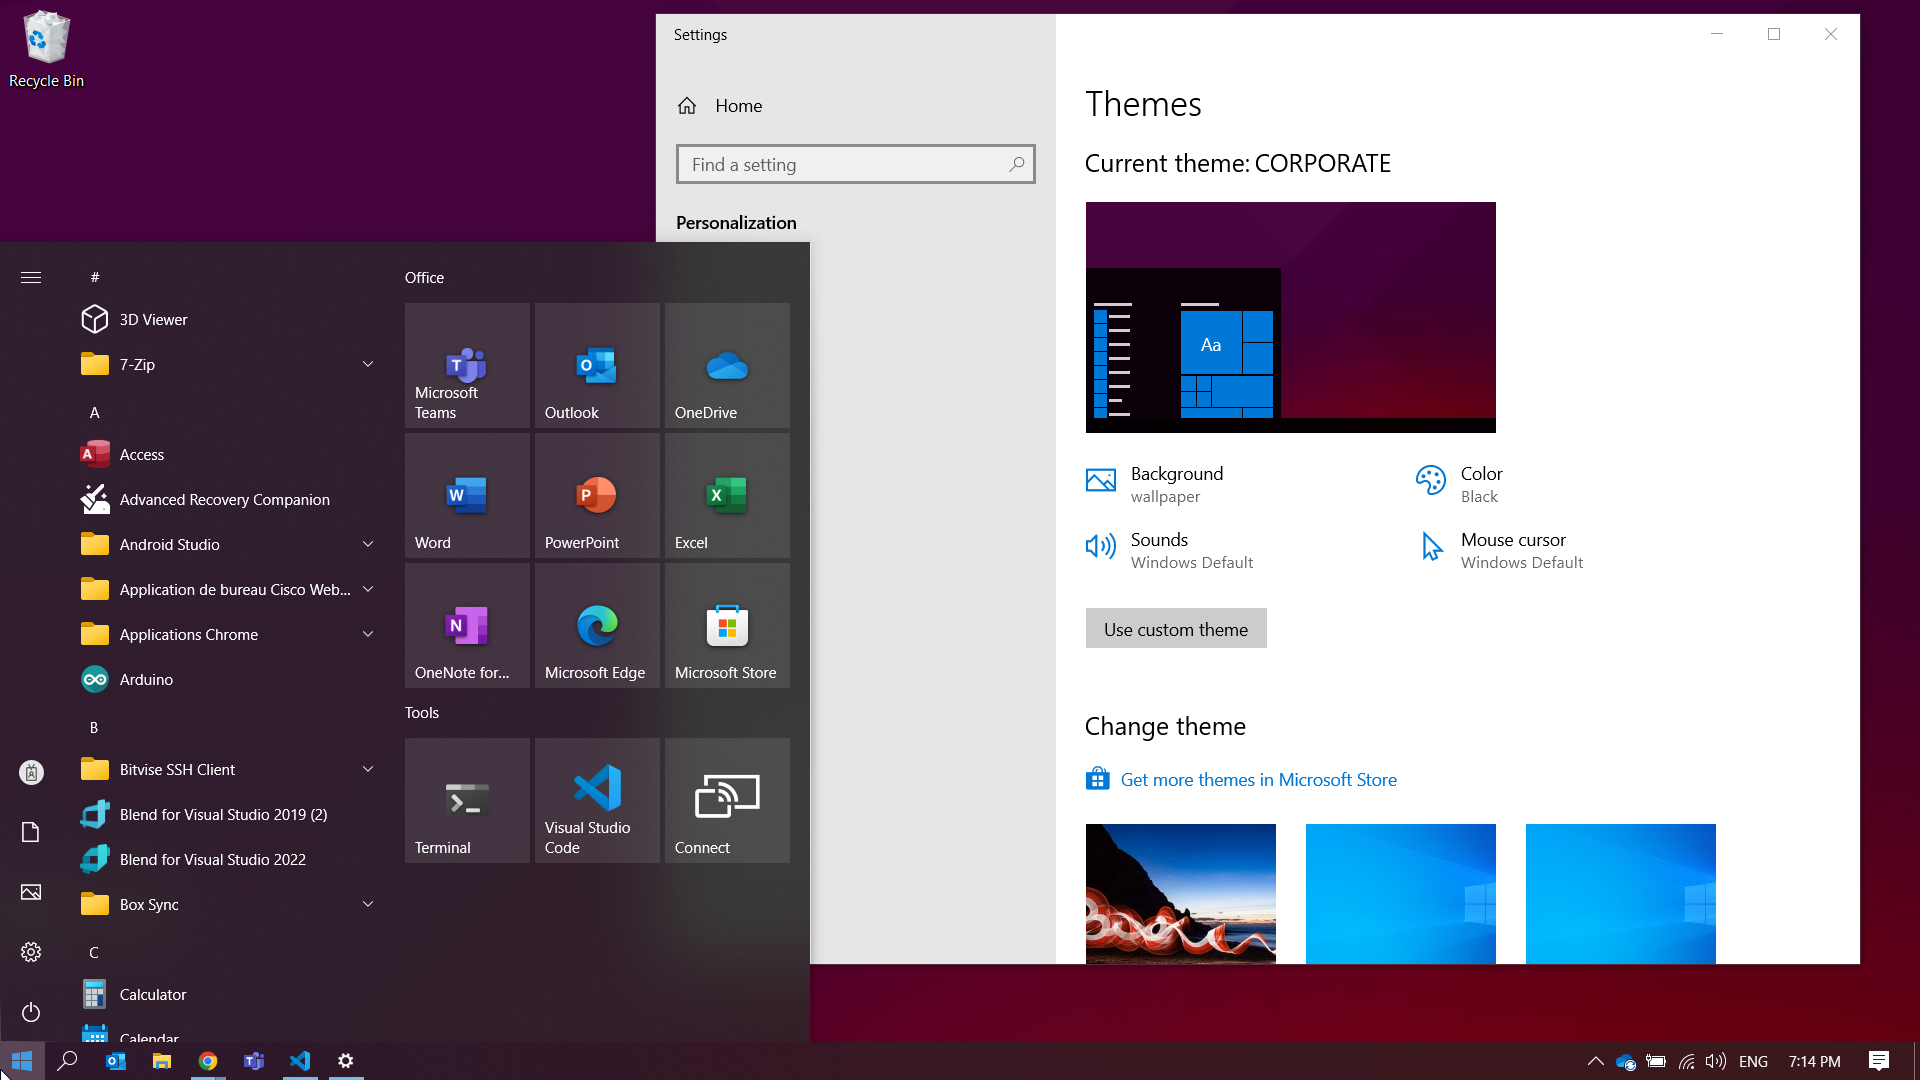
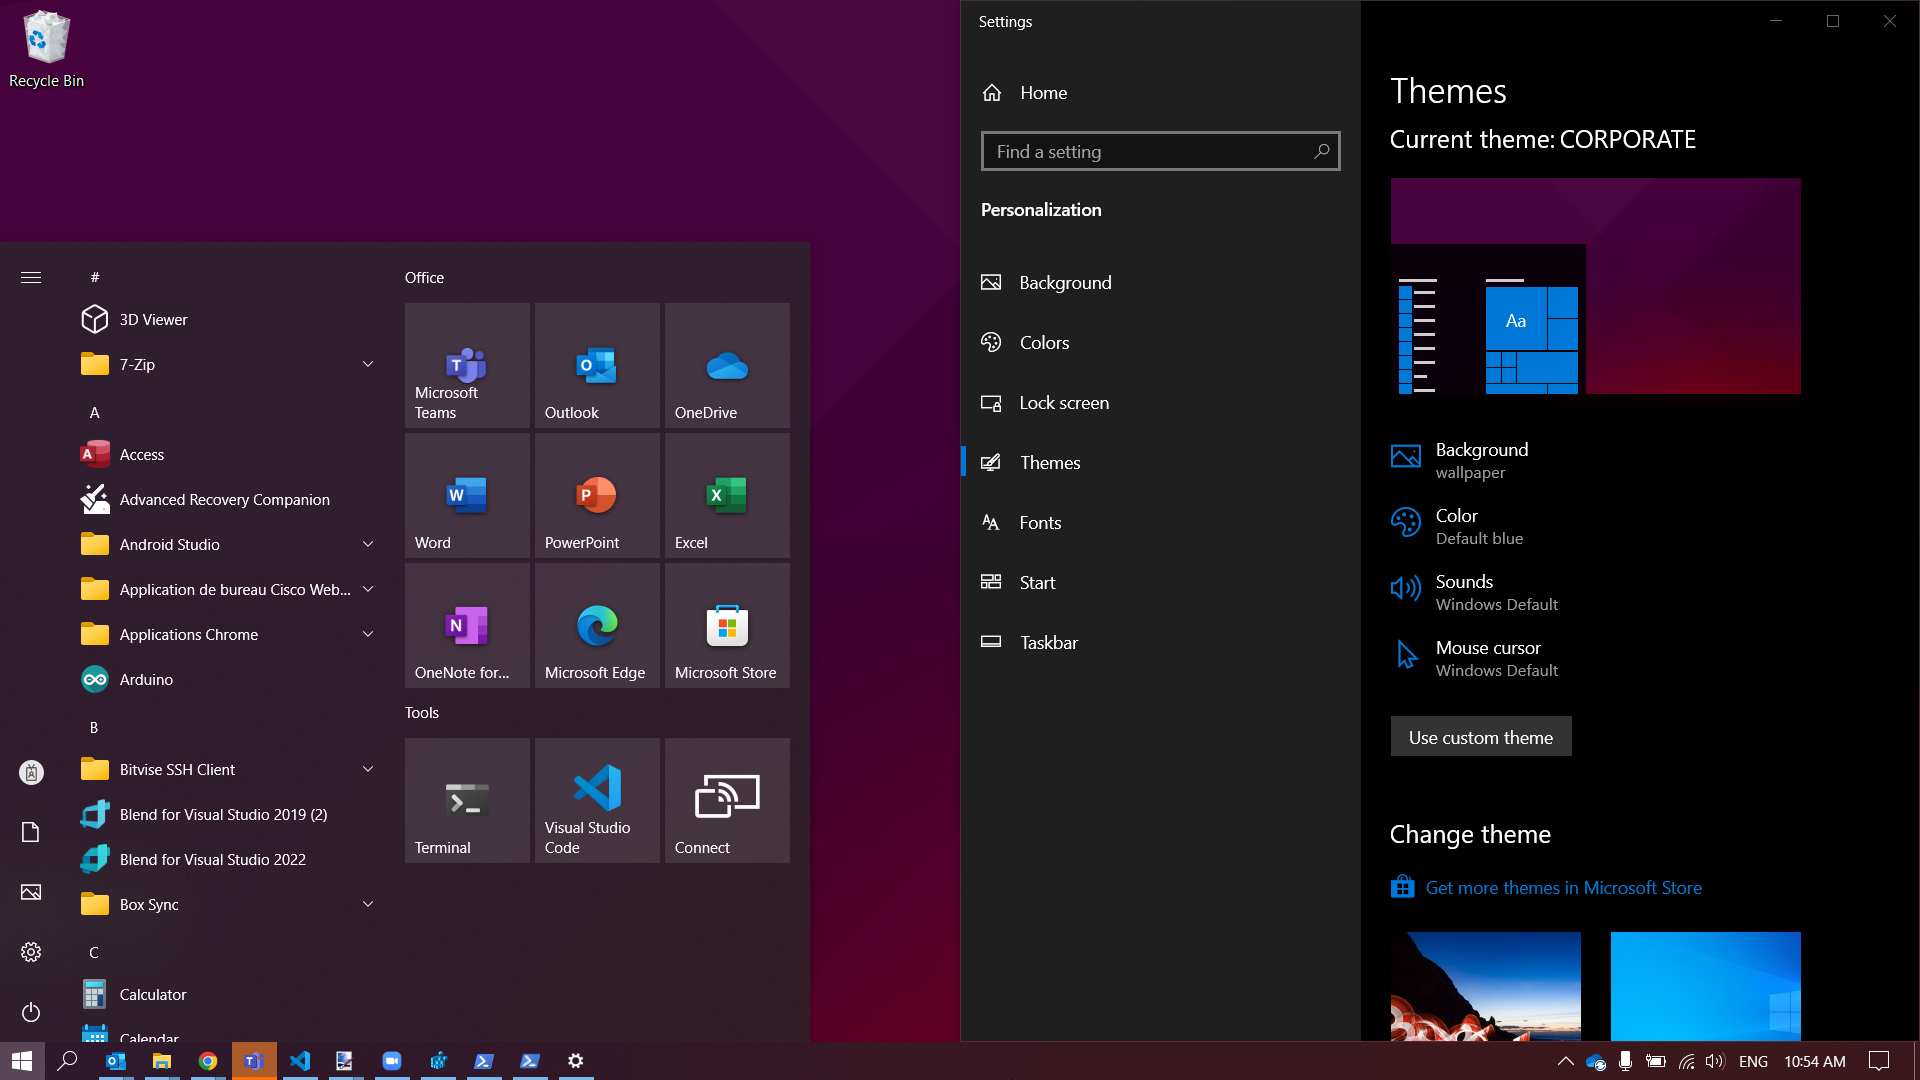
Fix windows theme script and post

diff --git a/themes/fluent/layouts/partials/head.html b/themes/fluent/layouts/partials/head.html
@@ -37,7 +37,7 @@
     <meta property="twitter:url" content="{{ .Site.BaseURL }}">
     <meta name="twitter:title" content="{{ $title }}">
     <meta name="twitter:description" content="{{ $description }}">
-    <meta name="twitter:image" content="{{ .Site.BaseURL }}{ $image }}">
+    <meta name="twitter:image" content="{{ .Site.BaseURL }}{{ $image }}">
 
     <meta name="theme-color" content="#302F2A" />
     <link rel="icon" href="/images/favicon.png">

diff --git a/content/posts/windows-default-theme.md b/content/posts/windows-default-theme.md
@@ -1,7 +1,7 @@
 ---
 title: "Customize Windows 10+ default theme"
 date: 2022-09-13
-lastmod: 2022-09-13
+lastmod: 2022-09-14
 draft: false
 tags: ["device-management", "windows", "powershell"]
 summary:  "Customize the Windows 10+ default theme using PowerShell script (wallpaper, lockscreen, etc.)"
@@ -212,13 +212,21 @@ Function Set-INIValue(){
 
         [Parameter(Mandatory=$true, Position=1)] 
         [ValidateNotNullOrEmpty()]
-        [string]$Key,
+        [string]$Category,
 
         [Parameter(Mandatory=$true, Position=2)] 
         [ValidateNotNullOrEmpty()]
+        [string]$Key,
+
+        [Parameter(Mandatory=$true, Position=3)] 
+        [ValidateNotNullOrEmpty()]
         [string]$Value
     )
-    $INICOntent -Replace "(?m)^$Key=.*","$Key=$Value"
+    If($INICOntent -match "(?m)^$Key=.*"){
+        $INICOntent -Replace "(?m)^$Key=.*","$Key=$Value"
+    }Else{
+        $INICOntent -Replace "(?m)^\[$Category\]","[$Category]`n$Key=$Value"
+    }
 }
 
 ################################# Customization ####################################################
@@ -234,11 +242,12 @@ Invoke-WebRequest -Uri "https://wallpaper-house.com/data/out/10/wallpaper2you_38
 
 #--------------------------------------------------------------------------------------------------------------#
 $THEME=@{
-    "DisplayName"       =       "CORPORATE"
-    "Wallpaper"         =       "$WALLPAPER_PATH"
-    "WallpaperStyle"    =       "10"
-    "SystemMode"        =       "Dark"
-    "ColorizationColor" =       "#3F3F3F"    
+    "Theme:DisplayName"                         =       "CORPORATE"
+    "Control Panel\Desktop:Wallpaper"           =       "$WALLPAPER_PATH"
+    "Control Panel\Desktop:WallpaperStyle"      =       "10"
+    "VisualStyles:SystemMode"                    =      "Dark"
+    "VisualStyles:ColorizationColor"            =       "0XC40078D7"
+    "VisualStyles:AppMode"                      =       "Dark" 
 }
 # Doc: https://docs.microsoft.com/en-us/windows/win32/controls/themesfileformat-overview
 #--------------------------------------------------------------------------------------------------------------#
@@ -262,10 +271,11 @@ $themeFileContent = Get-Content -Path "$THEME_FOLDER\$THEME_FILENAME" | Out-Stri
 
 
 ## Customize theme
+## Customize theme
 ForEach($item in $THEME.Keys){
-    $item
-    $themeFileContent =  Set-INIValue "$themeFileContent" "$item" "$($THEME[$item])"
+    $themeFileContent =  Set-INIValue "$themeFileContent" "$(($item -Split ':')[0])" "$(($item -Split ':')[1])" "$($THEME[$item])"
 }
+
 
 ## Set file content
 $themeFileContent | Out-File -FilePath  "$THEME_FOLDER\$THEME_FILENAME"

diff --git a/content/posts/manage-hololens.md b/content/posts/manage-hololens.md
@@ -1,0 +1,15 @@
+---
+title: "Manage HoloLens using MDM"
+date: 2022-09-14
+lastmod: 2022-09-14
+draft: true
+tags: ["device-management", "windows", "hololens"]
+summary:  "Manage HoloLens devices using MDM and Azure AD"
+image: "/posts/manage-hololens/_header.png"
+ogimage: "/posts/manage-hololens/_og.png"
+---
+## Content
+* Purpose
+* Study
+* PowerShell script
+* Sources / usefull resources
